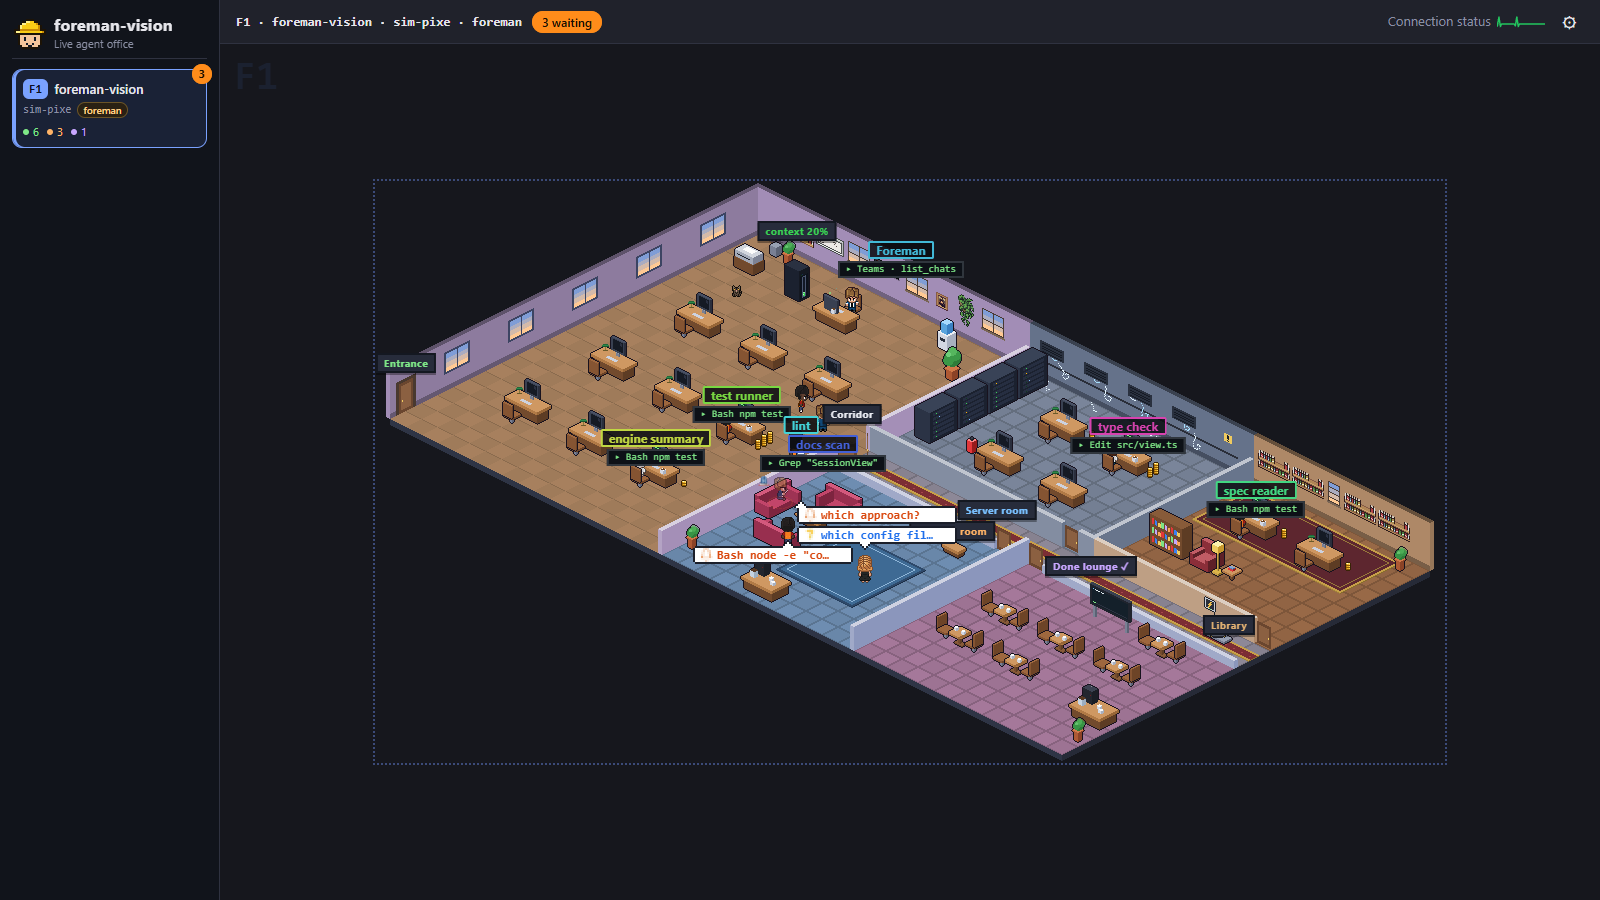
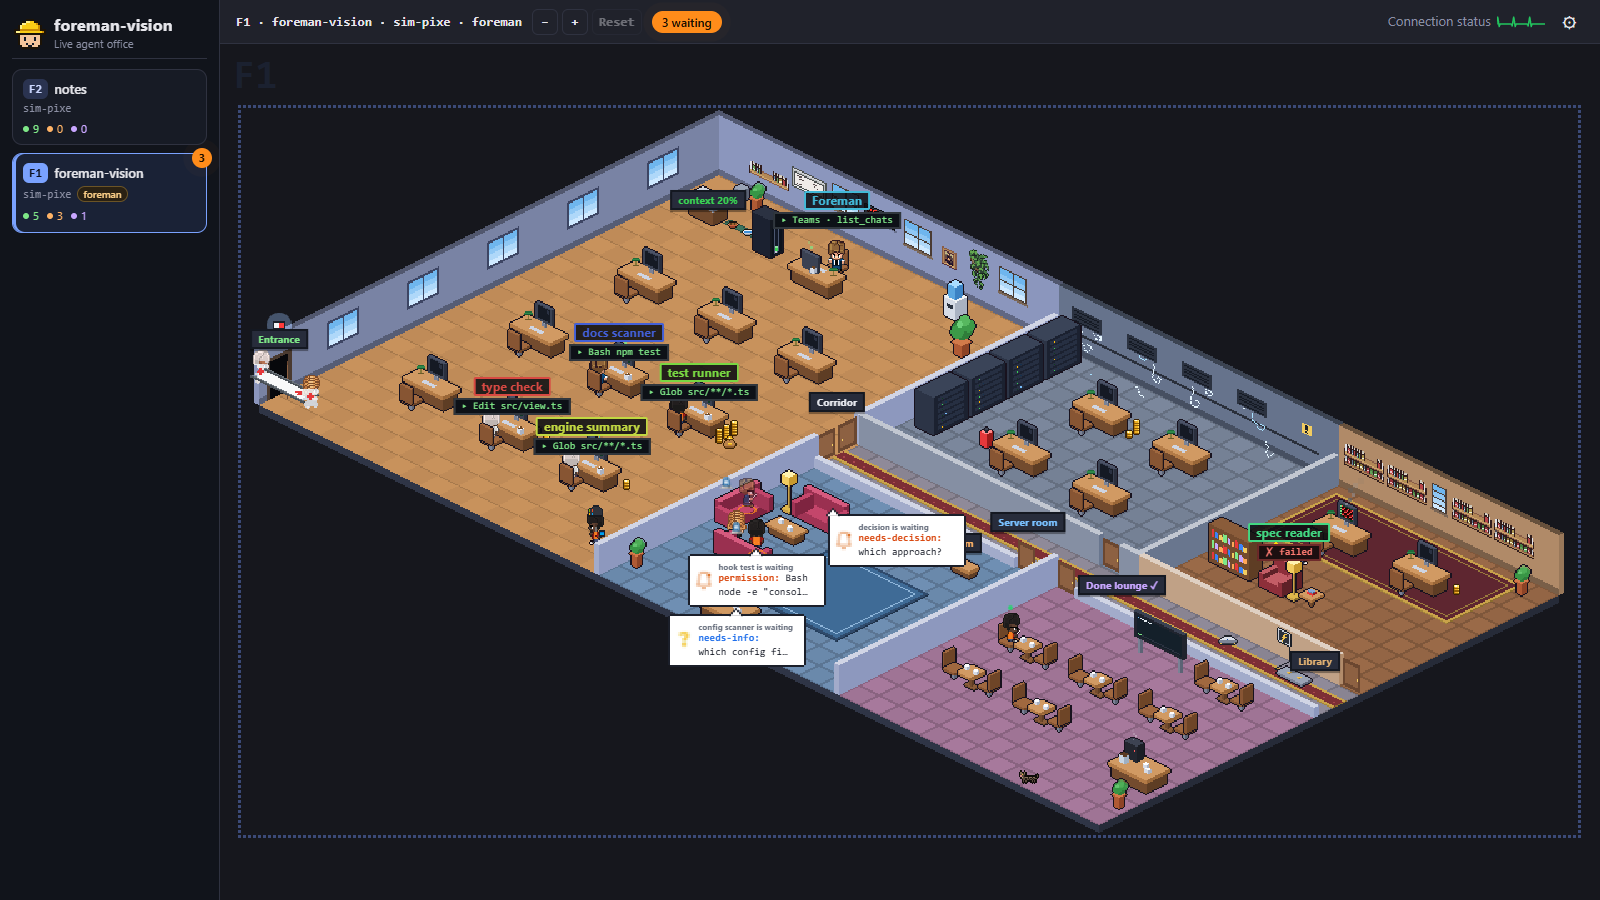
docs: refresh the README images and GIFs for the side-by-side pop-up

diff --git a/README.md b/README.md
@@ -26,7 +26,7 @@ It runs in your browser on `127.0.0.1`, reads only what Claude Code already writ
 > **foreman-vision works only with [Claude Code](https://docs.anthropic.com/en/docs/claude-code) (Anthropic's Claude) for now.** It is built on Claude Code's hook events and its session transcript files. Other coding agents and CLIs (Codex, Gemini CLI, Cursor, …) are not supported yet.
 
 <p align="center">
-  <img src="docs/media/demo-iso.gif" alt="foreman-vision isometric office: agents work at desks, two wait in the waiting room with balloons, one walks to the Done lounge" width="960">
+  <img src="docs/media/demo-iso.gif" alt="foreman-vision isometric office: agents work at desks, three wait in the waiting room with balloons, one walks to the Done lounge" width="960">
 </p>
 
 <p align="center"><sub>The isometric office, driven by the built-in simulator.</sub></p>
@@ -45,7 +45,7 @@ It runs in your browser on `127.0.0.1`, reads only what Claude Code already writ
 - **Office life.** Windows follow your local time (clouds, birds, stars at night), the office dims in the evening and desk lamps come on, along with the foreman's desk lamp, a floor lamp by the waiting-room sofas and the library reading lamp. Smooth the cat wanders between rooms and naps on busy desks (click her for hearts), and every few minutes walks to her food and water bowls in the main office for a bite and a drink; a cleaning robot does its round every ten minutes.
 - **Couriers.** When the main agent calls a Microsoft 365 or Google connector tool (MCP), a courier with a matching cap brings an envelope to the foreman's desk.
 - **Coins and flames.** Busy sub-agents stack gold coins by their tokens (the context the CLI shows for them) and collect them on payday; an agent running for more than ten minutes gets a flame on its monitor.
-- **Agent details with a live terminal.** Click any agent for a pop-up with its details, its last tool call (status, time, a one-line result) and its last five calls on the left, and its terminal on the right. The terminal collapses tool results like the CLI: a click opens one, and an Edit opens as a red/green diff. In a foreman session, when the main agent asks you something (AskUserQuestion), you can answer it from the main agent's pop-up: the terminal's own dialog stays open until one of them answers. Nothing else is ever sent to an agent.
+- **Agent details with a live terminal.** Click any agent for a pop-up with its details, its last tool call (status, time, a one-line result) and its last five calls on the left, and its terminal on the right. The terminal collapses tool results like the CLI: a click opens one, and an Edit or Write opens as a red/green diff. In a foreman session, when the main agent asks you something (AskUserQuestion), you can answer it from the main agent's pop-up: the terminal's own dialog stays open until one of them answers. Nothing else is ever sent to an agent.
 - **Notifications.** Tab title count, favicon dot, desktop notifications and an optional sound. Clicking a notification jumps to the agent's floor and opens it.
 - **English and Turkish UI.** Pick the language in settings.
 - **Respects `prefers-reduced-motion`.** Decorative motion stops; status markers stay.
@@ -75,8 +75,8 @@ It runs in your browser on `127.0.0.1`, reads only what Claude Code already writ
 </p>
 
 <p align="center">
-  <img src="docs/media/detail.png" alt="Agent details with the read-only live terminal" width="720">
-  <br/><sub>Agent details and the live terminal</sub>
+  <img src="docs/media/detail.png" alt="The main agent's pop-up: details, the last tool call card and the last five calls on the left; the live terminal with the open question and the answer form with its options on the right" width="720">
+  <br/><sub>The main agent's pop-up, answering its question (<code>--scenario ask</code>)</sub>
 </p>
 
 ## Requirements

diff --git a/CHANGELOG.md b/CHANGELOG.md
@@ -22,6 +22,7 @@ The format follows [Keep a Changelog](https://keepachangelog.com/en/1.1.0/).
 - `node src/cli.ts serve` writes its port to `~/.claude/foreman-vision/port` for the answer hook and removes the file on exit.
 - The terminal now gets up to 400 lines and 20,000 characters of a tool result (it was 15 lines and 4,000 characters), plus the last line of a result that was cut.
 - Scrollbars are thin and follow the theme colors.
+- The README images and GIFs show the current UI, including the side-by-side pop-up answering the main agent's question.
 
 ### Fixed
 
